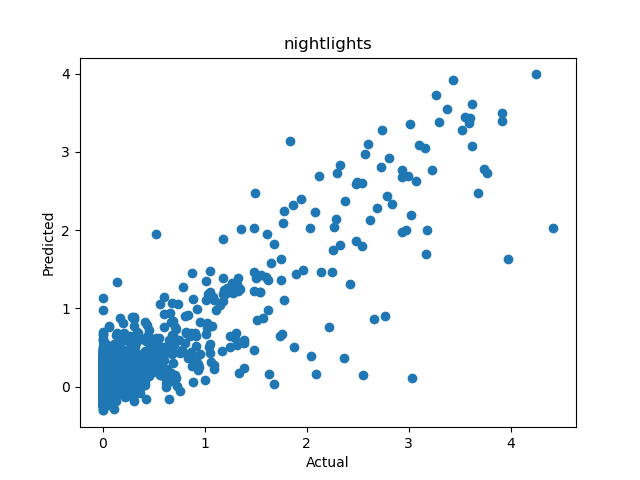
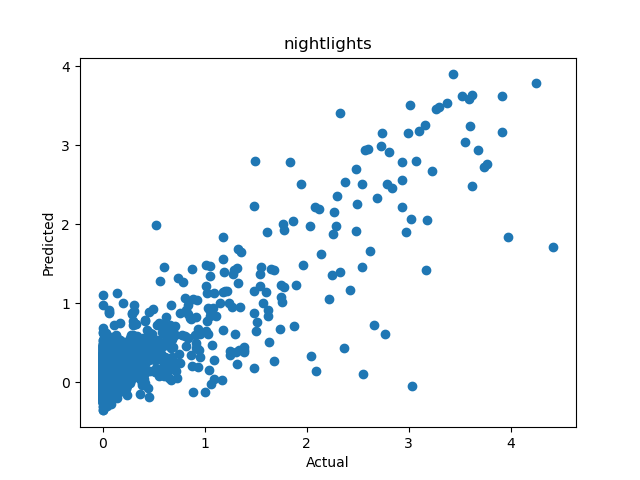
hyperparam opt, eval ablation, baseline model

diff --git a/src/experiments/embedding_experiments/tsne.py b/src/experiments/embedding_experiments/tsne.py
@@ -13,17 +13,16 @@ sys.path.append('../../')
 import util.embedding_utils as embedding_utils
 import util.util as util
 import dataset.dataloader as dataloader
-from dataset.tasks import Task, elevation_task, roads_task
+from dataset.tasks import Task, elevation_task, roads_task, treecover_task
 from dataset.dataloader import EmbeddedDataset
 
-def plot_tsne(dataset, name):
+def plot_tsne(dataset, filename):
     tsne = TSNE(n_components=2, verbose=1, perplexity=40, n_iter=300)
     X = dataset.X
     y = dataset.y 
 
    # create new Pandas dataframe
     df = pd.DataFrame()
-#    df['X'] = X
     df['y'] = y
 
     tsne_results = tsne.fit_transform(X)
@@ -35,7 +34,14 @@ def plot_tsne(dataset, name):
     y_range = df['y'].max() - df['y'].min()
     print("Y RANGE ", y_range)
 
+    # TODO: Re-run bins with elevation here as well!
+#    bins = np.array([0, int(0.25 * y_range), int(0.5 * y_range), int(0.75 * y_range), y_range])
+    
+#    if (task == 'elevation'):
     bins = np.array([0, 1000, 2000, 3000, 4000])
+#    elif (task == 'treecover'):
+#        bins = np.array([0, 25, 50, 75, 100])
+
     inds = np.digitize(df['y'], bins)
     df['y'] = inds
 
@@ -51,10 +57,11 @@ def plot_tsne(dataset, name):
         alpha=0.3
     )
 
-    sns_plot.figure.savefig("plots/tsne_mosaiks_elevation.png")
+    sns_plot.figure.savefig("plots/tsne/" + filename + ".png")
 
 if __name__ == "__main__":
     # load embeddings 
+    # what embeddings to train on/generate visualizations for?? Possibly for the four tasks model??
     model_name = "pretrained_visiontransformer_ElInPoRdTrNl"
 
     with open('../../out/embeddings/' + util.get_embedding_filename(model_name), 'rb') as f:
@@ -67,10 +74,14 @@ if __name__ == "__main__":
         mosaiks_embeddings = embedding_utils.mosaiks_format_to_map(X, ids_X, embeddings)
 
     embedded_dataset_elevation = EmbeddedDataset(embeddings, elevation_task)
-
     embedded_dataset_mosaiks_elevation = EmbeddedDataset(mosaiks_embeddings, elevation_task)
+
+    embedded_dataset_treecover = EmbeddedDataset(embeddings, treecover_task)
+    embedded_dataset_mosaiks_treecover = EmbeddedDataset(embeddings, treecover_task)
+
+    plot_tsne(embedded_dataset_elevation, "tsne_elevation_2")
 
 # Plot already generated: stored in plots/tsne_elevation.png
 #    plot_tsne(embedded_dataset_elevation, "embeddings elevation")
 
-    plot_tsne(embedded_dataset_mosaiks_elevation, "mosaiks_embeddings")
+#    plot_tsne(embedded_dataset_mosaiks_elevation, "mosaiks_embeddings")

diff --git a/src/eval_stage/regression.py b/src/eval_stage/regression.py
@@ -6,6 +6,7 @@ from sklearn.metrics import mean_absolute_error
 from sklearn.metrics import mean_squared_error
 import matplotlib.pyplot as plt
 import os
+from hyperopt import fmin, tpe, hp, Trials, STATUS_OK
 
 import sys
 sys.path.append('../')
@@ -27,6 +28,11 @@ def draw_graph(y_pred, y, task_name, dir):
     plt.savefig(os.path.join(dir, task_name + ".png"))
     plt.clf()
 
+def train_lin_reg(params):
+    # TODO: Possibly normalize ridge??
+    model = Ridge(params['ridge_coeff']).fit(params['train_X'], params['train_y'])
+    return {'loss': model.score(params['eval_X'], params['eval_y']), 'status': STATUS_OK}
+
 def train_and_eval(train_X, train_y, eval_X, eval_y, taskname, dir):
     """
     Train and evaluate a linear regression model
@@ -35,8 +41,29 @@ def train_and_eval(train_X, train_y, eval_X, eval_y, taskname, dir):
     print("Train size: ", len(train_X))
     print("Dimensions: ", len(train_X[0]))
 
-    # TODO: Train ridge regression
-    model = Ridge(0.04).fit(train_X, train_y) # TODO: Hyperparameter tune Ridge Regression
+    fspace = {
+        'ridge_coeff': hp.lognormal('ridge_coeff', 0.01, 0.5),
+        'train_X': train_X,
+        'train_y': train_y,
+        'eval_X': eval_X,
+        'eval_y': eval_y,
+    }
+
+    trials = Trials()
+
+    best = fmin(
+        fn=train_lin_reg,
+        space=fspace,
+        algo=tpe.suggest,
+        max_evals=150)
+
+    print("Best: ", best)
+    # NOTE: Ridge values of 0.5 were doing pretty well tbh.
+    # TODO: Get better hyperparameter search implemented!
+
+    # Should I normalize Ridge?
+    model = Ridge(best['ridge_coeff']).fit(train_X, train_y)
+
     score = model.score(eval_X, eval_y)
     print("Score: " + str(score))
     # print("Cross Validation Score: " + str(cross_val_score(model, eval_X, eval_y, cv=5)))
@@ -52,7 +79,7 @@ def train_and_eval(train_X, train_y, eval_X, eval_y, taskname, dir):
 
 if __name__ == "__main__":
     # load embeddings 
-    model_name = "pretrained_visiontransformer_1024_ElRdInTr"
+    model_name = "pretrained_visiontransformer_1024_ElRdIn"
 
     training_tasks = embedding_utils.parse_tasks(model_name)
     # training_tasks = []

diff --git a/src/experiments/baseline/baseline.py b/src/experiments/baseline/baseline.py
@@ -1,0 +1,28 @@
+import sys
+sys.path.insert(1, '../../')
+import os 
+import training_stage.train_multitask_model as train_multitask_model
+import util.util as util, training_stage.networks as networks, dataset.tasks as tasks
+import torch
+from scipy.stats import truncnorm
+# print winning set of hyperparameters
+from ray import tune
+from pathlib import Path
+
+batch_size = 64
+num_workers = 4
+
+net, model_name, transfrom = networks.get_visiontransformer(1, 1024, pretrained=True)
+
+name = "baseline_model"
+source_path = Path(__file__).resolve()
+source_dir = source_path.parent.parent
+
+torch.save(net, os.path.join(source_dir.parent, "out", "models", name + ".pth"))
+
+# Baseline:
+#  File "/home/nnaik39/satellite-embeddings/src/embed_stage/../embed_stage/embed.py", line 73, in save_embeddings
+#    transform = networks.get_weights(model_name).transforms()
+#  File "/home/nnaik39/satellite-embeddings/src/embed_stage/../training_stage/networks.py", line 38, in get_weights
+#    raise None
+#TypeError: exceptions must derive from BaseException

diff --git a/src/embed_stage/embed.py b/src/embed_stage/embed.py
@@ -65,13 +65,18 @@ def embed_images(model, transform):
     return embeddings
 
 def save_embeddings(model_name):
+    # TODO: Switch back to this
     model = torch.load(os.path.join(util.get_models_path(), model_name + ".pth"))
+
+#    model = torch.load(os.path.join(util.get_data_path(), "models_2/ablation/", model_name + ".pth"))
 
     transform = networks.get_weights(model_name).transforms()
 
     embeddings = embed_images(model, transform)
     embeddings_name = model_name + "_embeddings.pkl"
 
+# TODO: Change back to util.get_embeddings_path()
+# with open(os.path.join(util.get_embeddings_path(), embeddings_name), 'wb') as f:
     with open(os.path.join(util.get_embeddings_path(), embeddings_name), 'wb') as f:
         pickle.dump(embeddings, f)
 

diff --git a/src/embed_stage/embed_runner.py b/src/embed_stage/embed_runner.py
@@ -4,6 +4,7 @@ sys.path.append('../')
 import embed_stage.embed as embed
 
 # model_name = "pretrained_vgg13_ElRdInNl"
-model_name = "pretrained_visiontransformer_1024_ElRdInTr"
-embed.save_embeddings(model_name)
+#model_name = "pretrained_visiontransformer_1024_ElRdIn"
+model_name = "baseline_model"
 
+embed.save_embeddings(model_name)
